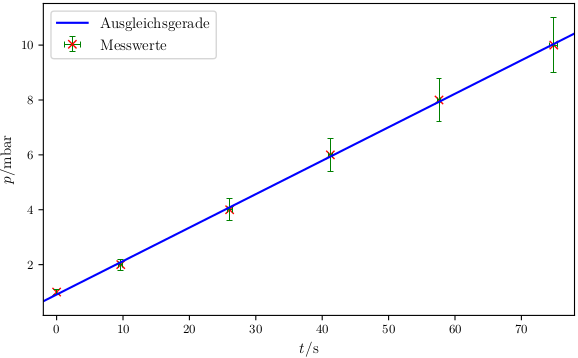
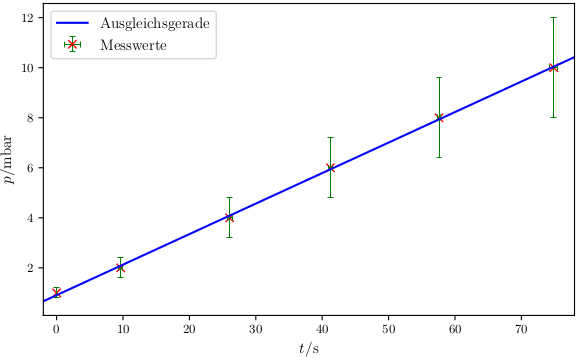
more stuff

diff --git a/FP-V70/scripts/mainscriptw.py b/FP-V70/scripts/mainscriptw.py
@@ -295,7 +295,7 @@ VDL = unp.uarray(11.15,1.032)
 pDL1,tDL1_1,tDL1_2,tDL1_3,tDL1_4 = np.genfromtxt(r'scripts/dataDL1.txt',unpack=True)
 p0DL1 = np.array(1)
 pDL1 = np.append(p0DL1,pDL1)
-pDL1 = unp.uarray(pDL1,pDL1*0.1)
+pDL1 = unp.uarray(pDL1,pDL1*0.2)
 
 tDL1 = [0]
 tDL1_f = [0]
@@ -323,7 +323,7 @@ makeTable([noms(pDL1)[1:], stds(pDL1)[1:], tDL1_1, tDL1_2, tDL1_3, tDL1_4, noms(
 pDL2,tDL2_1,tDL2_2,tDL2_3 = np.genfromtxt(r'scripts/dataDL2.txt',unpack=True)
 p0DL2 = np.array(0.8)
 pDL2 = np.append(p0DL2,pDL2)
-pDL2 = unp.uarray(pDL2,pDL2*0.1)
+pDL2 = unp.uarray(pDL2,pDL2*0.2)
 
 tDL2 = [0]
 tDL2_f = [0]
@@ -351,7 +351,7 @@ makeTable([noms(pDL2)[1:], stds(pDL2)[1:], tDL2_1, tDL2_2, tDL2_3, noms(tDL2)[1:
 pDL3,tDL3_1,tDL3_2,tDL3_3 = np.genfromtxt(r'scripts/dataDL3.txt',unpack=True)
 p0DL3 = np.array(0.4)
 pDL3 = np.append(p0DL3,pDL3)
-pDL3 = unp.uarray(pDL3,pDL3*0.1)
+pDL3 = unp.uarray(pDL3,pDL3*0.2)
 
 tDL3 = [0]
 tDL3_f = [0]
@@ -373,13 +373,13 @@ print('achsenAbschnittDL3 =', achsenAbschnittDL3)
 SDL3 = VDL/p0DL3*steigungDL3
 print('SDL3 = ', SDL3)
 
-makeTable([noms(pDL3)[1:], stds(pDL3)[1:], tDL3_1, tDL3_2, tDL3_3, noms(tDL3)[1:], stds(tDL3)[1:]], r'\multicolumn{2}{c}{'+r'$p/\si{\milli\bar}$'+r'} & {'+r'$t_1/\si{\second}$'+r'} & {'+r'$t_2/\si{\second}$'+r'} & {'+r'$t_3/\si{\second}$'+r'} & \multicolumn{2}{c}{'+r'$\bar{t}/\si{\second}$'+r'}', 'tabDL3', ['S[table-format=1.1]', ' @{${}\pm{}$} S[table-format=1.1]','S[table-format=2.2]', 'S[table-format=2.2]', 'S[table-format=2.2]', 'S[table-format=2.2]', ' @{${}\pm{}$} S[table-format=1.2]'], ["%1.1f", "%1.1f", "%2.2f", "%2.2f", "%2.2f", "%2.2f", "%1.2f"])
+makeTable([noms(pDL3)[1:], stds(pDL3)[1:], tDL3_1, tDL3_2, tDL3_3, noms(tDL3)[1:], stds(tDL3)[1:]], r'\multicolumn{2}{c}{'+r'$p/\si{\milli\bar}$'+r'} & {'+r'$t_1/\si{\second}$'+r'} & {'+r'$t_2/\si{\second}$'+r'} & {'+r'$t_3/\si{\second}$'+r'} & \multicolumn{2}{c}{'+r'$\bar{t}/\si{\second}$'+r'}', 'tabDL3', ['S[table-format=1.1]', ' @{${}\pm{}$} S[table-format=1.2]','S[table-format=2.2]', 'S[table-format=2.2]', 'S[table-format=2.2]', 'S[table-format=2.2]', ' @{${}\pm{}$} S[table-format=1.2]'], ["%1.1f", "%1.2f", "%2.2f", "%2.2f", "%2.2f", "%2.2f", "%1.2f"])
 
 #DL4
 pDL4,tDL4_1,tDL4_2,tDL4_3 = np.genfromtxt(r'scripts/dataDL4.txt',unpack=True)
 p0DL4 = np.array(0.1)
 pDL4 = np.append(p0DL4,pDL4)
-pDL4 = unp.uarray(pDL4,pDL4*0.1)
+pDL4 = unp.uarray(pDL4,pDL4*0.2)
 
 tDL4 = [0]
 tDL4_f = [0]
@@ -401,9 +401,9 @@ print('achsenAbschnittDL4 =', achsenAbschnittDL4)
 SDL4 = VDL/p0DL4*steigungDL4
 print('SDL4 = ', SDL4)
 
-makeTable([noms(pDL4)[1:], stds(pDL4)[1:], tDL4_1, tDL4_2, tDL4_3, noms(tDL4)[1:], stds(tDL4)[1:]], r'\multicolumn{2}{c}{'+r'$p/\si{\milli\bar}$'+r'} & {'+r'$t_1/\si{\second}$'+r'} & {'+r'$t_2/\si{\second}$'+r'} & {'+r'$t_3/\si{\second}$'+r'} & \multicolumn{2}{c}{'+r'$\bar{t}/\si{\second}$'+r'}', 'tabDL4', ['S[table-format=1.1]', ' @{${}\pm{}$} S[table-format=1.1]','S[table-format=2.2]', 'S[table-format=2.2]', 'S[table-format=2.2]', 'S[table-format=2.2]', ' @{${}\pm{}$} S[table-format=1.2]'], ["%1.1f", "%1.1f", "%2.2f", "%2.2f", "%2.2f", "%2.2f", "%1.2f"])
+makeTable([noms(pDL4)[1:], stds(pDL4)[1:], tDL4_1, tDL4_2, tDL4_3, noms(tDL4)[1:], stds(tDL4)[1:]], r'\multicolumn{2}{c}{'+r'$p/\si{\milli\bar}$'+r'} & {'+r'$t_1/\si{\second}$'+r'} & {'+r'$t_2/\si{\second}$'+r'} & {'+r'$t_3/\si{\second}$'+r'} & \multicolumn{2}{c}{'+r'$\bar{t}/\si{\second}$'+r'}', 'tabDL4', ['S[table-format=1.1]', ' @{${}\pm{}$} S[table-format=1.2]','S[table-format=2.2]', 'S[table-format=2.2]', 'S[table-format=2.2]', 'S[table-format=2.2]', ' @{${}\pm{}$} S[table-format=1.2]'], ["%1.1f", "%1.2f", "%2.2f", "%2.2f", "%2.2f", "%2.2f", "%1.2f"])
 
-"""
+
 #Plot
 #DL1
 plt.cla()
@@ -499,7 +499,7 @@ plt.xlim(-5,185)
 plt.legend(loc='best')
 plt.tight_layout(pad=0, h_pad=1.08, w_pad=1.08)
 plt.savefig('content/images/DL.png')
-"""
+
 print('DL done')
 
 

diff --git a/FP-V70/content/diskussion.tex b/FP-V70/content/diskussion.tex
@@ -2,10 +2,10 @@
 \section{Diskussion}
 \label{sec:Diskussion}
 
-In den Abbildungen \ref{fig:TL1} bis \ref{fig:DL4} der Leckratenmessung ist zu erkennen, dass die Werte gut auf einer geraden liegen. Dabei wird bei den ersten drei Messreihen der Turbopumpe zusätzlich eine zweite Ausgleichsrechnung durchgeführt, die zu einer geringeren Abweichung der Werte von den Geraden führen. Der dadurch zustande kommende negative Achsenabschnitt kann dadurch erklärt werden, dass zuerst die Zeit gestartet und danach die Ventile geschlossen wurden, wodurch die Graphen nach rechts verschoben werden.\\
+In den Abbildungen \ref{fig:TL1} bis \ref{fig:DL4} der Leckratenmessung ist zu erkennen, dass die Werte gut auf einer Geraden liegen. Dabei wird bei den ersten drei Messreihen der Turbopumpe zusätzlich eine zweite Ausgleichsrechnung durchgeführt, die zu einer geringeren Abweichung der Werte von den Geraden führen. Der dadurch zustande kommende negative Achsenabschnitt kann dadurch erklärt werden, dass zuerst die Zeit gestartet und danach die Ventile geschlossen wurden, wodurch die Graphen nach rechts verschoben werden.\\
 Bei der vierten Messreihe der Turbopumpe (Abbildung \ref{fig:TL4}) und der zweiten der Drehschieberpumpe (Abbildung \ref{fig:DL2}) wird jeweils der letzte Messwert bei der Ausgleichsrechnung vernachlässigt, da es sich hier um Ausreißer zu handeln scheint.\\
 Bei den Evakuierungskurven der Pumpen (Abbildungen \ref{fig:TSE} und \ref{fig:TSL} für die Turbopumpe, sowie Abbildungen \ref{fig:DSE} und \ref{fig:DSL} für die Drehschieberpumpe) lässt sich der erwartete exponentielle Abfall beobachten. Bei der Turbopumpe können dabei in der logarithmischen Darstellung drei lineare Bereiche beobachtet werden, während es bei der Drehschieberpumpe zwei sind.\\
-Wird das Saugvermögen der Pumpen betrachtet (vergleiche Abbildungen \ref{fig:TGes} und \ref{fig:DGes}), so lässt sich erkennen, dass das die Turbopumpe ihren optimalen Wirkungsbereich zwischen $p=\SI{10e-5}{\milli\bar}$ und $p=\SI{20e-5}{\milli\bar}$ besitzt. Auch sonst zeigt die Abhängigkeit von $S$ zu $p$ den erwarteten verlauf, wobei das Saugvermögen der Turbopumpe bei höheren Drücken nur etwa halb so groß ist wie das Maximum. Dies könnte daran liegen, dass die Turbopumpe für niedrige Druckbereiche ausgelegt ist.\\
+Wird das Saugvermögen der Pumpen betrachtet (vergleiche Abbildungen \ref{fig:TGes} und \ref{fig:DGes}), so lässt sich erkennen, dass die Turbopumpe ihren optimalen Wirkungsbereich zwischen $p=\SI{10e-5}{\milli\bar}$ und $p=\SI{20e-5}{\milli\bar}$ besitzt. Auch sonst zeigt die Abhängigkeit von $S$ zu $p$ den erwarteten verlauf, wobei das Saugvermögen der Turbopumpe bei höheren Drücken nur etwa halb so groß ist wie das Maximum. Dies könnte daran liegen, dass die Turbopumpe für niedrige Druckbereiche ausgelegt ist.\\
 Das maximal bestimmte Saugvermögen der Pumpe von $S_.{TL3,2}=\SI{25(2)}{\litre\per\second}$ ist dabei deutlich geringer, als der vom Hersteller angegebene Wert von $S=\SI{77}{\litre\per\second}$ \cite{V70}. Dies liegt vor allem an der Querschnittverengung B4, da wie in der Theorie beschrieben das Saugvermögen stark vom Rohrdurchmesser abhängt. Somit liegt der ermittelte Wert im erwarteten Bereich.\\
 Bei der Drehschieberpumpe ist das Plateau mit $S_.{DE1}=\SI{1(1)}{\litre\per\second}$ gut in der Nähe des vom Hersteller angegebenen Wertes von $S=\SI{1.1}{\litre\per\second}$ \cite{V70}.
 Im optimalen Bereich zwischen $p=\SI{0.8}{\milli\bar}$ und $p=\SI{1}{\milli\bar}$ ist der ermittelte Wert mit $S_.{DL2}=\SI{1.4(1)}{\litre\per\second}$ sogar größer als der angegebene Wert. Dies kann dadurch begründet werden, dass zuvor durch die Turbopumpe bereits ein sehr gutes Vakuum geschaffen wurde, bevor die Leckratenmessung der Drehschieberpumpe durchgeführt wurde.   

diff --git a/FP-V70/content/auswertung.tex b/FP-V70/content/auswertung.tex
@@ -207,7 +207,7 @@ V_.{TE} = \SI{10.3(9)}{\litre}\text{.}
 \subsubsection{Bestimmung des Saugvermögens $S$ über die Leckratenmessung}
 
 Die Leckratenmessung wurde bei vier unterschiedlichen Gleichgewichtsdrücken $p_.g$ durchgeführt. Dabei werden die gemessenen Zeiten $t_i$ mit Formel \eqref{eq:tQuer} gemittelt.
-In den Tabellen \ref{tab:DL1} bis \ref{tab:DL4} sind die Messwerte und die zugehörigen Mittelwerte der jeweiligen Messreihen aufgelistet. Der Fehler des Druckes ergibt sich dabei aus der Ungenauigkeit der Messskala von $10\%$ \cite{V70}.\\
+In den Tabellen \ref{tab:DL1} bis \ref{tab:DL4} sind die Messwerte und die zugehörigen Mittelwerte der jeweiligen Messreihen aufgelistet. Der Fehler des Druckes ergibt sich dabei aus der Ungenauigkeit der Messskala von $20\%$ \cite{V70}.\\
 In den Abbildungen \ref{fig:DL1} bis \ref{fig:DL4} ist der Druck $p$ gegen die gemittelte Zeit $\bar{t}$ aufgetragen.
 Die linearen Ausgleichsrechnungen der Form
 \[
@@ -215,7 +215,7 @@ p_i(t) = a_it+b_i
 \]
 ergeben für $p_.g = \SI{1}{\milli\bar}$ die Parameter
 \begin{align*}
-a_.{DL1} &= \SI{0.122(2)}{\milli\bar\per\second} \text{,}\\
+a_.{DL1} &= \SI{0.122(1)}{\milli\bar\per\second} \text{,}\\
 b_.{DL1} &= \SI{0.91(6)}{\milli\bar} \text{,}\\
 \end{align*}
 für $p_g = \SI{0.8}{\milli\bar}$
@@ -322,7 +322,7 @@ b_.{DE1} &= \SI{-0.08(8)}{} \text{,}\\
 a_.{DE2} &= \SI{-0.0619(8)}{\per\second} \text{,}\\
 b_.{DE2} &= \SI{-2.51(8)}{} \text{,}\\
 \end{align*} 
-Daraus folgen mit Formel \eqref{eq:} für $S$ die Werte:
+Daraus folgen mit Formel \eqref{eq:S} für $S$ die Werte:
 \begin{align*}
 S_.{DE1} &= \SI{1.0(1)}{\litre\per\second} \text{,}\\
 S_.{DE2} &= \SI{0.69(6)}{\litre\per\second} \text{.}\\

diff --git a/FP-V70/content/tables/tabDL4.tex b/FP-V70/content/tables/tabDL4.tex
@@ -1,13 +1,13 @@
 \label{tab:tabDL4}
 	\sisetup{table-format=1.2}
-	\begin{tabular}{S[table-format=1.1] @{${}\pm{}$} S[table-format=1.1]S[table-format=2.2]S[table-format=2.2]S[table-format=2.2]S[table-format=2.2] @{${}\pm{}$} S[table-format=1.2]}
+	\begin{tabular}{S[table-format=1.1] @{${}\pm{}$} S[table-format=1.2]S[table-format=2.2]S[table-format=2.2]S[table-format=2.2]S[table-format=2.2] @{${}\pm{}$} S[table-format=1.2]}
 		\toprule
 		\multicolumn{2}{c}{$p/\si{\milli\bar}$} & {$t_1/\si{\second}$} & {$t_2/\si{\second}$} & {$t_3/\si{\second}$} & \multicolumn{2}{c}{$\bar{t}/\si{\second}$} \\
 		\midrule
-		0.2 & 0.0 & 9.95 & 10.08 & 10.66 & 10.23 & 0.22 \\
-		0.4 & 0.0 & 46.08 & 46.54 & 46.48 & 46.37 & 0.14 \\
-		0.6 & 0.1 & 93.01 & 95.29 & 95.11 & 94.47 & 0.73 \\
-		0.8 & 0.1 & 141.51 & 141.29 & 142.19 & 141.66 & 0.27 \\
-		1.0 & 0.1 & 179.62 & 180.72 & 180.07 & 180.14 & 0.32 \\
+		0.2 & 0.04 & 9.95 & 10.08 & 10.66 & 10.23 & 0.22 \\
+		0.4 & 0.08 & 46.08 & 46.54 & 46.48 & 46.37 & 0.14 \\
+		0.6 & 0.12 & 93.01 & 95.29 & 95.11 & 94.47 & 0.73 \\
+		0.8 & 0.16 & 141.51 & 141.29 & 142.19 & 141.66 & 0.27 \\
+		1.0 & 0.20 & 179.62 & 180.72 & 180.07 & 180.14 & 0.32 \\
 		\bottomrule
 	\end{tabular}

diff --git a/FP-V70/content/tables/tabDL3.tex b/FP-V70/content/tables/tabDL3.tex
@@ -1,13 +1,13 @@
 \label{tab:tabDL3}
 	\sisetup{table-format=1.2}
-	\begin{tabular}{S[table-format=1.1] @{${}\pm{}$} S[table-format=1.1]S[table-format=2.2]S[table-format=2.2]S[table-format=2.2]S[table-format=2.2] @{${}\pm{}$} S[table-format=1.2]}
+	\begin{tabular}{S[table-format=1.1] @{${}\pm{}$} S[table-format=1.2]S[table-format=2.2]S[table-format=2.2]S[table-format=2.2]S[table-format=2.2] @{${}\pm{}$} S[table-format=1.2]}
 		\toprule
 		\multicolumn{2}{c}{$p/\si{\milli\bar}$} & {$t_1/\si{\second}$} & {$t_2/\si{\second}$} & {$t_3/\si{\second}$} & \multicolumn{2}{c}{$\bar{t}/\si{\second}$} \\
 		\midrule
-		0.6 & 0.1 & 8.28 & 9.35 & 8.71 & 8.78 & 0.31 \\
-		1.0 & 0.1 & 23.33 & 23.89 & 23.85 & 23.69 & 0.18 \\
-		2.0 & 0.2 & 57.47 & 56.65 & 55.97 & 56.70 & 0.43 \\
-		4.0 & 0.4 & 113.70 & 113.33 & 112.68 & 113.24 & 0.30 \\
-		6.0 & 0.6 & 164.21 & 165.51 & 165.13 & 164.95 & 0.39 \\
+		0.6 & 0.12 & 8.28 & 9.35 & 8.71 & 8.78 & 0.31 \\
+		1.0 & 0.20 & 23.33 & 23.89 & 23.85 & 23.69 & 0.18 \\
+		2.0 & 0.40 & 57.47 & 56.65 & 55.97 & 56.70 & 0.43 \\
+		4.0 & 0.80 & 113.70 & 113.33 & 112.68 & 113.24 & 0.30 \\
+		6.0 & 1.20 & 164.21 & 165.51 & 165.13 & 164.95 & 0.39 \\
 		\bottomrule
 	\end{tabular}

diff --git a/FP-V70/content/tables/tabDL1.tex b/FP-V70/content/tables/tabDL1.tex
@@ -4,10 +4,10 @@
 		\toprule
 		\multicolumn{2}{c}{$p/\si{\milli\bar}$} & {$t_1/\si{\second}$} & {$t_2/\si{\second}$} & {$t_3/\si{\second}$} & {$t_4/\si{\second}$} & \multicolumn{2}{c}{$\bar{t}/\si{\second}$} \\
 		\midrule
-		 2 & 0.2 & 8.91 & 9.81 & 10.36 & 9.55 & 9.66 & 0.30 \\
-		 4 & 0.4 & 25.87 & 25.15 & 27.01 & 26.21 & 26.06 & 0.39 \\
-		 6 & 0.6 & 40.78 & 41.33 & 42.06 & 40.74 & 41.23 & 0.31 \\
-		 8 & 0.8 & 57.78 & 58.09 & 56.92 & 57.58 & 57.59 & 0.25 \\
-		10 & 1.0 & 74.33 & 75.40 & 76.27 & 73.51 & 74.88 & 0.60 \\
+		 2 & 0.4 & 8.91 & 9.81 & 10.36 & 9.55 & 9.66 & 0.30 \\
+		 4 & 0.8 & 25.87 & 25.15 & 27.01 & 26.21 & 26.06 & 0.39 \\
+		 6 & 1.2 & 40.78 & 41.33 & 42.06 & 40.74 & 41.23 & 0.31 \\
+		 8 & 1.6 & 57.78 & 58.09 & 56.92 & 57.58 & 57.59 & 0.25 \\
+		10 & 2.0 & 74.33 & 75.40 & 76.27 & 73.51 & 74.88 & 0.60 \\
 		\bottomrule
 	\end{tabular}

diff --git a/FP-V70/content/tables/tabDL2.tex b/FP-V70/content/tables/tabDL2.tex
@@ -4,10 +4,10 @@
 		\toprule
 		\multicolumn{2}{c}{$p/\si{\milli\bar}$} & {$t_1/\si{\second}$} & {$t_2/\si{\second}$} & {$t_3/\si{\second}$} & \multicolumn{2}{c}{$\bar{t}/\si{\second}$} \\
 		\midrule
-		 2 & 0.2 & 12.28 & 11.88 & 12.29 & 12.15 & 0.14 \\
-		 4 & 0.4 & 33.98 & 35.09 & 33.67 & 34.25 & 0.43 \\
-		 6 & 0.6 & 52.83 & 52.47 & 52.65 & 52.65 & 0.10 \\
-		 8 & 0.8 & 73.54 & 73.97 & 73.18 & 73.56 & 0.23 \\
-		10 & 1.0 & 76.73 & 76.87 & 75.98 & 76.53 & 0.28 \\
+		 2 & 0.4 & 12.28 & 11.88 & 12.29 & 12.15 & 0.14 \\
+		 4 & 0.8 & 33.98 & 35.09 & 33.67 & 34.25 & 0.43 \\
+		 6 & 1.2 & 52.83 & 52.47 & 52.65 & 52.65 & 0.10 \\
+		 8 & 1.6 & 73.54 & 73.97 & 73.18 & 73.56 & 0.23 \\
+		10 & 2.0 & 76.73 & 76.87 & 75.98 & 76.53 & 0.28 \\
 		\bottomrule
 	\end{tabular}
